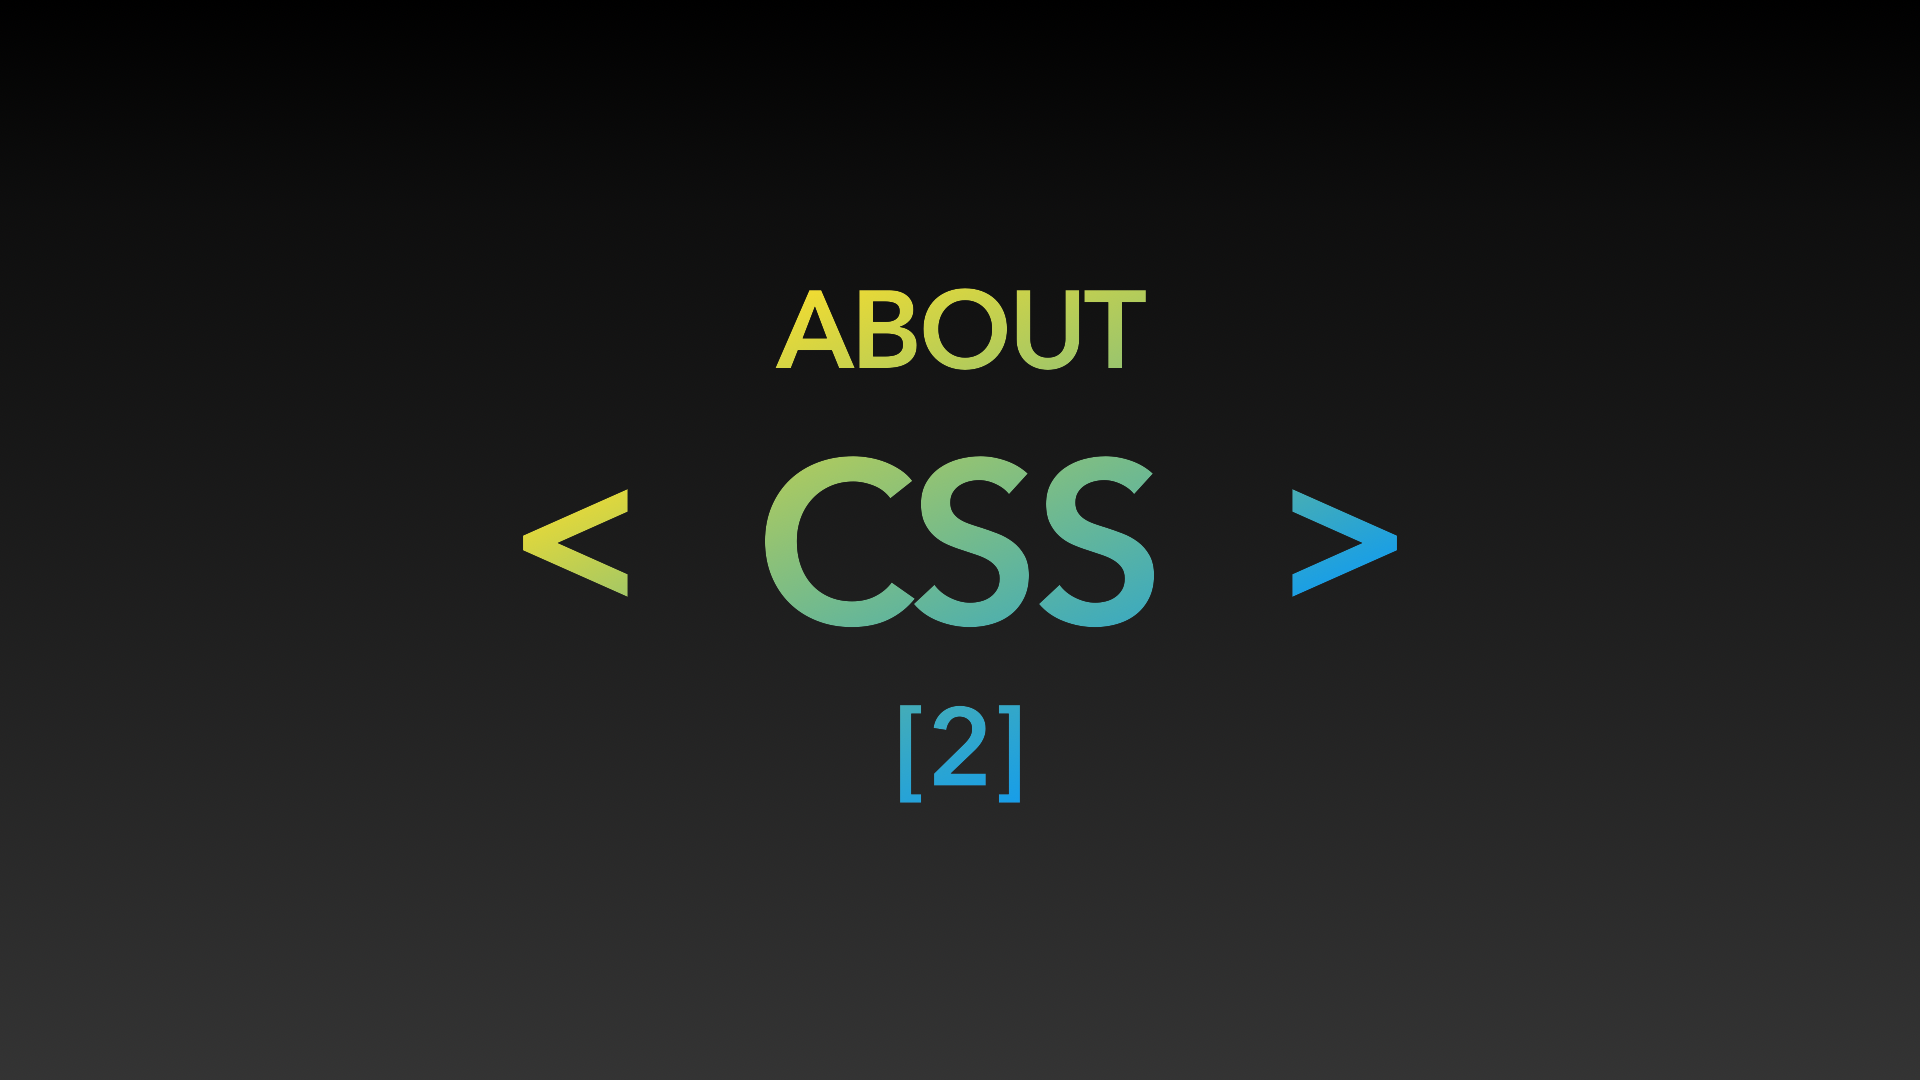
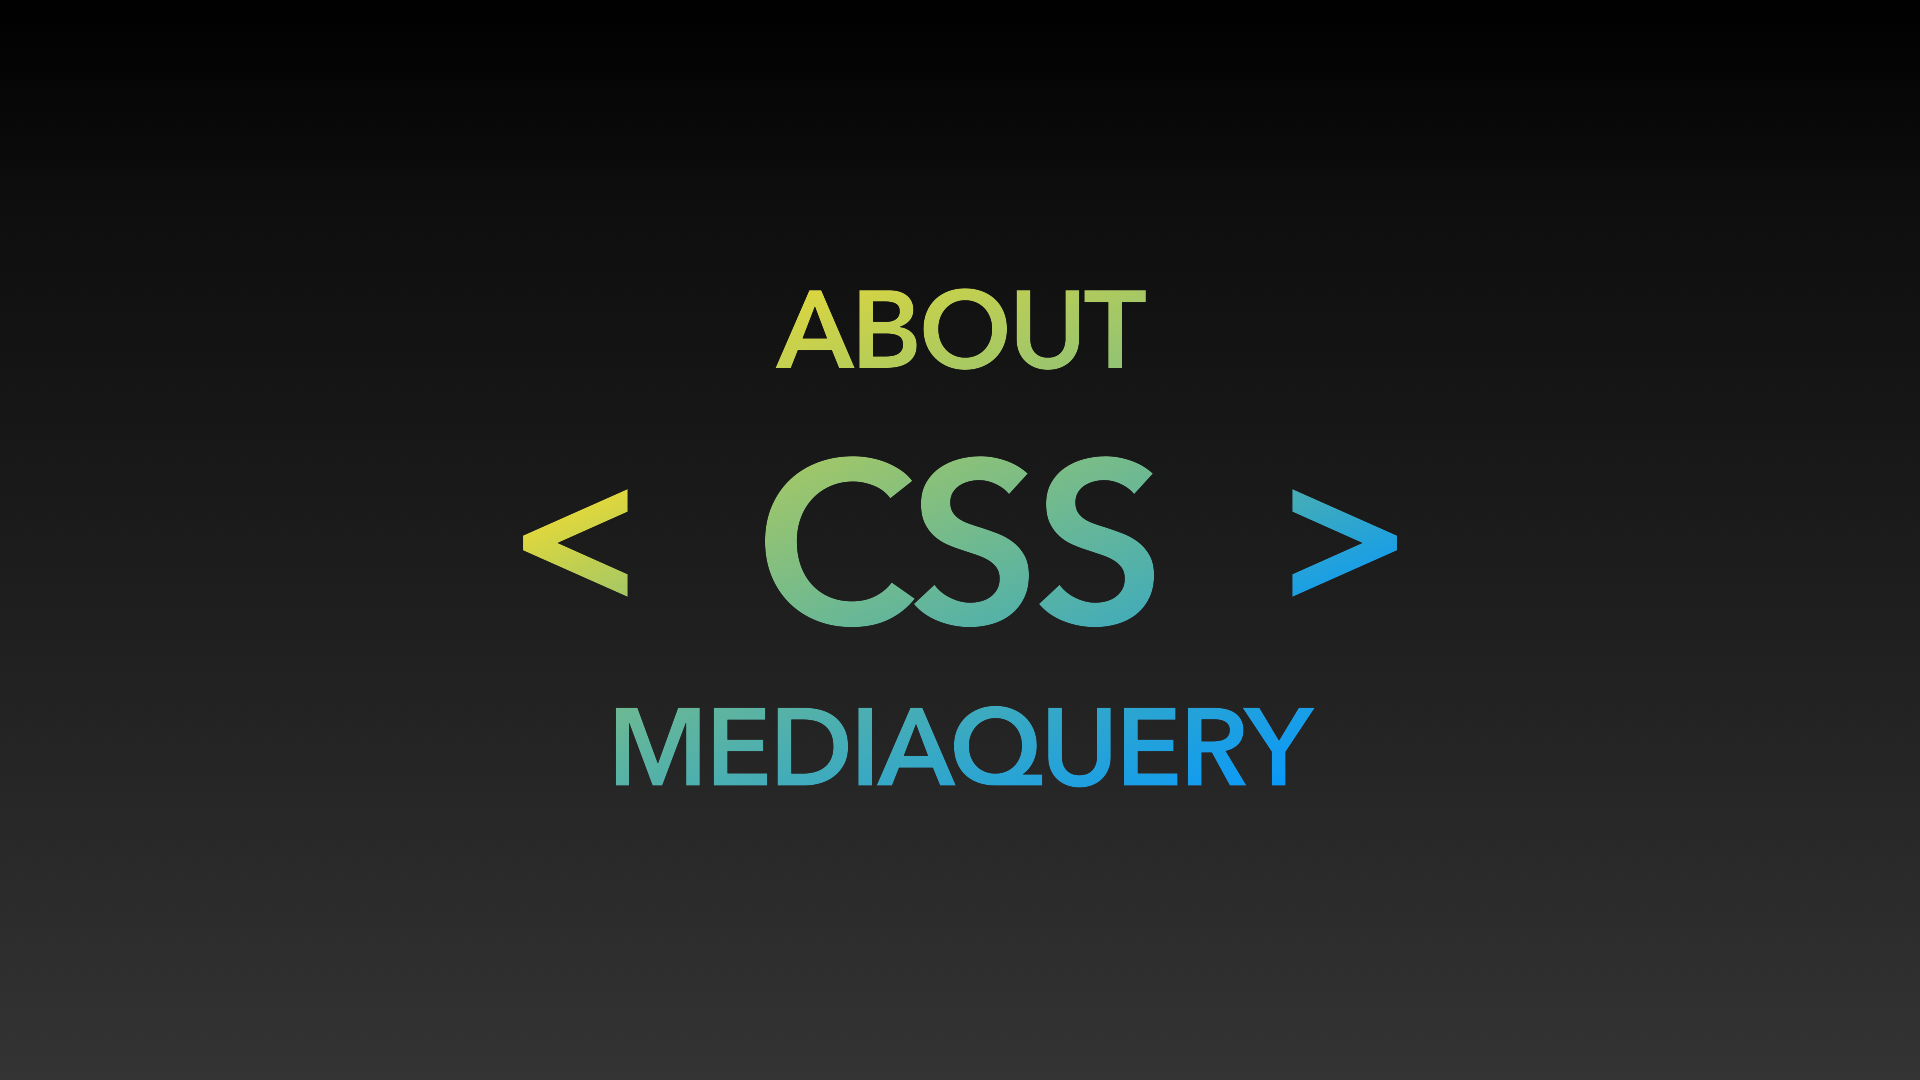
css 포스팅 업데이트

Changed region(s): [[0.3125, 0.6417, 0.6875, 0.7639]]

diff --git a/css/_posts/2023-06-21-CSS3.md b/css/_posts/2023-06-21-CSS3.md
@@ -1,138 +1,65 @@
 ---
 layout: post
-title: CSS 프레임워크
+title: CSS에 미디어쿼리
 image: "/assets/image/css3main.png"
 category: css
-keywords: htmlcss, css잘짜는방법, css공부방법
+keywords: css보더, cssborder, border css, CSS, htmlcss, css공부, css속성들, 미디어쿼리, css미디어쿼리, 반응형웹사이트, 반응형웹, 반응형, css 프레임워크, 부트스트랩
 ---
 
-<h2 class="posth2"> HTML 문서를 꾸미기 위해서 사용한 방법 </h2>
+<h2 class="posth2"> CSS 프레임워크와 라이브러리 </h2>
 
-> HTML 문서에 정보를 태그들을 사용하여 나열하고 보니 글자의 크기나 색상 혹은 글씨체 등을 변경하기를 원했고 CSS가 아직 태어나기 전에 사용되었던 방법이다.
+웹 개발은 빠르게 진화하여 개발자들은 효율적이면서 힙한 웹 페이지를 구축하기 위해 다양한 CSS 프레임워크와 라이브러리를 만들었다.  
+이번 포스팅에서는 그게 무엇이며 어떻게 사용되는지에 대해 간략히 알아본다.
 
-<hr>
+> CSS 프레임워크란?
+> <br> > <br>
+> CSS 프레임워크는 웹 페이지의 레이아웃 및 디자인을 효과적으로 관리할 수 있도록 미리 정의된 스타일, 그리드 시스템, 컴포넌트 등을 제공하는 도구 모음.
 
-<h3 class="post__h3__style">
-<span class="post__htag__numbering">#.</span> 기본 사용 방법
-</h3>
-
-```html
-<태그명 style="속성명:값;"> *마지막 세미콜론은 한 문장을 마무리하는 점 이라고
-보면된다.
-```
-
-<hr>
-
-<h3 class="post__h3__style">
-<span class="post__htag__numbering">01.</span> Background Color (배경색)
-</h3>
-
-```html
-<body style="background-color:powderblue;">
-  <h1>제목의 배경색 변경</h1>
-  <p>내용의 배경색 변경</p>
-</body>
-```
-
-> &#128205;출력물
-> <br><br>
->
-> <h1 style="background-color:powderblue;">제목의 배경색 변경</h1>
-> <p style="background-color:tomato;">내용의 배경색 변경</p>
+- 장점
+  1. 웹개발의 가속성
+     - 빠른 웹 개발을 위해 기본 스타일 및 레이아웃을 미리 구현하고 불러올 수 있다.
+  2. 반응형 디자인
+     - 다양한 기기에 대응하는 반응형 디자인을 쉽게 구현할 수 있다.
 
 <hr>
 
 <h3 class="post__h3__style">
-<span class="post__htag__numbering">02.</span> Fonts (글꼴)
+<span class="post__htag__numbering">#.</span> 대표적인 CSS 프레임워크
 </h3>
 
-```html
-<h1 style="font-family:verdana;">This is a heading</h1>
-<p style="font-family:courier;">This is a paragraph.</p>
-```
+1. Bootstrap
 
-> &#128205;출력물
-> <br><br>
->
-> <h1 style="font-family:verdana;">This is a heading</h1>
-> <p style="font-family:courier;">This is a paragraph.</p>
+   - 인기 있는 CSS 프레임워크 중 하나로, 모바일 우선 디자인, 그리드 시스템, 풍부한 컴포넌트 등을 제공한다.
+   - 웹 페이지 및 웹 애플리케이션의 빠른 개발에 적합하며, 다양한 테마도 제공되어 디자인의 다양성을 지원한다.
+
+2. Tailwind CSS
+   - 클래스 기반의 유틸리티 퍼스트 접근 방식을 채택하여 개발자에게 최대한의 유연성을 제공한다.
+   - 세세한 스타일 제어가 필요한 경우에 적합하며, 유연하게 커스터마이징이 가능하다.
 
 <hr>
 
-<h3 class="post__h3__style">
-<span class="post__htag__numbering">03.</span> Text Size (글자 크기)
-</h3>
+> CSS 라이브러리란?
+> <br> > <br>
+> CSS 라이브러리는 특정한 디자인 컴포넌트나 기능을 손쉽게 사용할 수 있도록 스타일을 묶어 놓은 모듈화된 도구이다.
 
-```html
-<h1 style="font-size:300%;">This is a heading</h1>
-<p style="font-size:160%;">This is a paragraph.</p>
-```
-
-> &#128205;출력물
-> <br><br>
->
-> <h1 style="font-size:300%;">This is a heading</h1>
-> <p style="font-size:20px;">This is a paragraph.</p>
-
-글씨 크기를 지정할때는 크기를 지정하는 어떤 값이든 입력이 가능하다.
-
-<hr>
+- 장점
+  1. 모듈화
+     - 필요한 부분만 선택적으로 사용할 수 있어 경량화된 개발이 가능하다.
+  2. 커스터마이징
+     - 라이브러리를 기반으로 개발하면서 필요한 스타일을 손쉽게 추가하거나 변경할 수 있다.
 
 <h3 class="post__h3__style">
-<span class="post__htag__numbering">04.</span> Text Alignment (글자 정렬)
+<span class="post__htag__numbering">#.</span> 대표적인 CSS 라이브러리
 </h3>
 
-```html
-<h1 style="text-align:center;">Centered Heading</h1>
-<p style="text-align:right;">Right Aligned paragraph.</p>
-```
+1. Animate.css
 
-> &#128205;출력물
-> <br><br>
->
-> <h1 style="text-align:center;">Centered Heading</h1>
-> <p style="text-align:right;">Right Aligned paragraph.</p>
-
-기본값은 왼쪽(left) 정렬이다.
-
-<hr>
-
-<h3 class="post__h3__style">
-<span class="post__htag__numbering">05.</span> Font Color (글자 색상)
-</h3>
-
-```html
-<h1 style="color:#123456;">색상 변경된 제목</h1>
-<p style="color:tomato;">Centered paragraph.</p>
-```
-
-> &#128205;출력물
-> <br><br>
->
-> <h1 style="color:#123456;">색상 변경된 제목</h1>
-> <p style="color:tomato;">색상 변경된 내용.</p>
-
-<hr>
-
-<h3 class="post__h3__style">
-<span class="post__htag__numbering">Tips.</span> 
-</h3>
-위에 기재된 속성들은 5가지 이지만 사실상 CSS 의 속성들을 알고 있다면 스타일과 관련된 모든 속성들을 사용할 수 있다.
-우리는 이와같이 html 문서의 태그안에 기재하는 '스타일'속성을 내부 스타일이라고 부른다.
+   - 다양한 애니메이션 효과를 제공하는 라이브러리로, 간단한 클래스 추가로 웹 페이지에 동적인 효과를 부여할 수 있다.
 
 <hr>
 
 <br>
 
-⭐지난 포스팅에 이어서 html 문서에 정보를 작성할 때 여러가지 스타일을 주어서 강조거나 꾸밀 수 있도록 해주는 태그들에 대해서 알아보았습니다.
-
-<!-- <h3 class="post__h3__style">
-<span class="post__htag__numbering">Tip.</span> 몇가지 정리 사항.
-</h3>
-
-- 항상 소문자를 사용하는 것이 좋다.
-- 속성값 따옴표가 필수는 아니지만 인용하는 것이 좋다.
-- 큰따옴표와 작은따옴표 둘 다 사용가능하나 둘 다 사용해야하는경우 교차 사용한다. -->
-
-<!-- <p class="pafterhr">
-</p> -->
+⭐CSS 프레임워크와 라이브러리는 웹 개발 생태계에서 빠르게 적응하고 효율적인 작업을 가능하게 한다.  
+그러나 항상 프로젝트의 특성에 맞게 선택하고, 필요한 부분은 직접 스타일링하는 능력도 중요하다.  
+이런 툴들을 올바르게 사용하면서 개발 생산성과 디자인 퀄리티를 향상시킬 수 있다.

diff --git a/css/_posts/2023-06-20-CSS2.md b/css/_posts/2023-06-20-CSS2.md
@@ -3,136 +3,68 @@ layout: post
 title: CSS에 미디어쿼리
 image: "/assets/image/css2main.png"
 category: css
-keywords: css보더, cssborder, border css, CSS, htmlcss, css공부, css속성들
+keywords: css보더, cssborder, border css, CSS, htmlcss, css공부, css속성들, 미디어쿼리, css미디어쿼리, 반응형웹사이트
 ---
 
-<h2 class="posth2"> HTML 문서를 꾸미기 위해서 사용한 방법 </h2>
+<h2 class="posth2"> Responsive Web Design: CSS 미디어 쿼리 </h2>
 
-> HTML 문서에 정보를 태그들을 사용하여 나열하고 보니 글자의 크기나 색상 혹은 글씨체 등을 변경하기를 원했고 CSS가 아직 태어나기 전에 사용되었던 방법이다.
+> 미디어 쿼리 (Media Queries)란?
+> <br> > <br>
+> 미디어 쿼리는 웹 페이지의 디자인을 다양한 디바이스와 화면 크기에 맞게 조절하는 데 사용되는 CSS 기술이다. 이를 통해, 반응형 웹 디자인(Responsive Web Design)을 구현하여 모바일 기기부터 데스크톱까지 다양한 화면 크기에 대응할 수 있다.
 
 <hr>
 
 <h3 class="post__h3__style">
-<span class="post__htag__numbering">#.</span> 기본 사용 방법
+<span class="post__htag__numbering">#.</span> 기본적인 미디어 쿼리 구문
 </h3>
 
-```html
-<태그명 style="속성명:값;"> *마지막 세미콜론은 한 문장을 마무리하는 점 이라고
-보면된다.
+미디어 쿼리는 @media 규칙을 사용하여 정의된다.  
+
+#### 예제_
+```css
+@media only screen and (min-width: 768px) {
+  body {
+    font-size: 16px;
+  }
+}
 ```
 
 <hr>
 
 <h3 class="post__h3__style">
-<span class="post__htag__numbering">01.</span> Background Color (배경색)
+<span class="post__htag__numbering">#.</span> 미디어 쿼리 주요 속성
 </h3>
 
-```html
-<body style="background-color:powderblue;">
-  <h1>제목의 배경색 변경</h1>
-  <p>내용의 배경색 변경</p>
-</body>
+1. only screen: 미디어 유형을 지정한다. 대부분 screen을 사용하여 스크린 기반의 디바이스에 스타일을 적용한다.
+
+2. (min-width: 768px): 최소 화면 너비를 지정한다. 768px 이상의 화면에 스타일을 적용한다.
+
+3. (max-width: 767px): 최대 화면 너비를 지정한다. 767px 이하의 화면에 스타일을 적용한다.
+
+#### 실용적인 예제_
+
+```css
+/* 데스크톱 및 태블릿 화면에 대한 스타일 */
+@media only screen and (min-width: 768px) {
+  /* 데스크톱 및 태블릿에 대한 스타일 설정 */
+}
+
+/* 모바일 화면에 대한 스타일 */
+@media only screen and (max-width: 767px) {
+  /* 모바일에 대한 스타일 설정 */
+}
+
+/* 데스크톱에서만 적용되는 스타일 */
+@media only screen and (min-width: 1024px) {
+  /* 데스크톱에서만 적용되는 스타일 설정 */
+}
 ```
 
-> &#128205;출력물
-> <br><br>
->
-> <h1 style="background-color:powderblue;">제목의 배경색 변경</h1>
-> <p style="background-color:tomato;">내용의 배경색 변경</p>
-
-<hr>
-
-<h3 class="post__h3__style">
-<span class="post__htag__numbering">02.</span> Fonts (글꼴)
-</h3>
-
-```html
-<h1 style="font-family:verdana;">This is a heading</h1>
-<p style="font-family:courier;">This is a paragraph.</p>
-```
-
-> &#128205;출력물
-> <br><br>
->
-> <h1 style="font-family:verdana;">This is a heading</h1>
-> <p style="font-family:courier;">This is a paragraph.</p>
-
-<hr>
-
-<h3 class="post__h3__style">
-<span class="post__htag__numbering">03.</span> Text Size (글자 크기)
-</h3>
-
-```html
-<h1 style="font-size:300%;">This is a heading</h1>
-<p style="font-size:160%;">This is a paragraph.</p>
-```
-
-> &#128205;출력물
-> <br><br>
->
-> <h1 style="font-size:300%;">This is a heading</h1>
-> <p style="font-size:20px;">This is a paragraph.</p>
-
-글씨 크기를 지정할때는 크기를 지정하는 어떤 값이든 입력이 가능하다.
-
-<hr>
-
-<h3 class="post__h3__style">
-<span class="post__htag__numbering">04.</span> Text Alignment (글자 정렬)
-</h3>
-
-```html
-<h1 style="text-align:center;">Centered Heading</h1>
-<p style="text-align:right;">Right Aligned paragraph.</p>
-```
-
-> &#128205;출력물
-> <br><br>
->
-> <h1 style="text-align:center;">Centered Heading</h1>
-> <p style="text-align:right;">Right Aligned paragraph.</p>
-
-기본값은 왼쪽(left) 정렬이다.
-
-<hr>
-
-<h3 class="post__h3__style">
-<span class="post__htag__numbering">05.</span> Font Color (글자 색상)
-</h3>
-
-```html
-<h1 style="color:#123456;">색상 변경된 제목</h1>
-<p style="color:tomato;">Centered paragraph.</p>
-```
-
-> &#128205;출력물
-> <br><br>
->
-> <h1 style="color:#123456;">색상 변경된 제목</h1>
-> <p style="color:tomato;">색상 변경된 내용.</p>
-
-<hr>
-
-<h3 class="post__h3__style">
-<span class="post__htag__numbering">Tips.</span> 
-</h3>
-위에 기재된 속성들은 5가지 이지만 사실상 CSS 의 속성들을 알고 있다면 스타일과 관련된 모든 속성들을 사용할 수 있다.
-우리는 이와같이 html 문서의 태그안에 기재하는 '스타일'속성을 내부 스타일이라고 부른다.
+미디어 쿼리를 활용하면 각 기기에 맞게 유연하게 스타일을 조절할 수 있습니다.   
+이것이 반응형 웹 디자인의 핵심 원리 중 하나이다.
 
 <hr>
 
 <br>
 
-⭐지난 포스팅에 이어서 html 문서에 정보를 작성할 때 여러가지 스타일을 주어서 강조거나 꾸밀 수 있도록 해주는 태그들에 대해서 알아보았습니다.
-
-<!-- <h3 class="post__h3__style">
-<span class="post__htag__numbering">Tip.</span> 몇가지 정리 사항.
-</h3>
-
-- 항상 소문자를 사용하는 것이 좋다.
-- 속성값 따옴표가 필수는 아니지만 인용하는 것이 좋다.
-- 큰따옴표와 작은따옴표 둘 다 사용가능하나 둘 다 사용해야하는경우 교차 사용한다. -->
-
-<!-- <p class="pafterhr">
-</p> -->
+⭐지난 포스팅에 이어서 css에 대해서 특별히 미디어쿼리(Media Queries)에 대해서 자세히 알아보았습니다.
